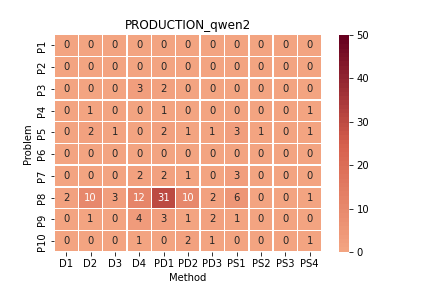
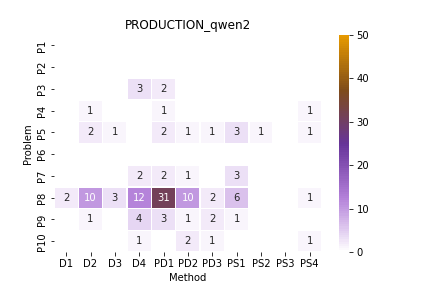
updated colormap

diff --git a/src/3. analyse_results.py b/src/3. analyse_results.py
@@ -64,10 +64,9 @@ def createHeatmap(D_scs : pd.DataFrame,
                           linewidths=.5,
                           annot=True,
                           fmt="d",
-                          #cmap="YlOrRd",
                           #cmap="PuOr",
                           cmap=cmap,
-                          center=0,
+                          mask=(D_scs_square == 0),
                           vmin=0,
                           vmax=50)
     heatmap.set_xlabel("Method")
